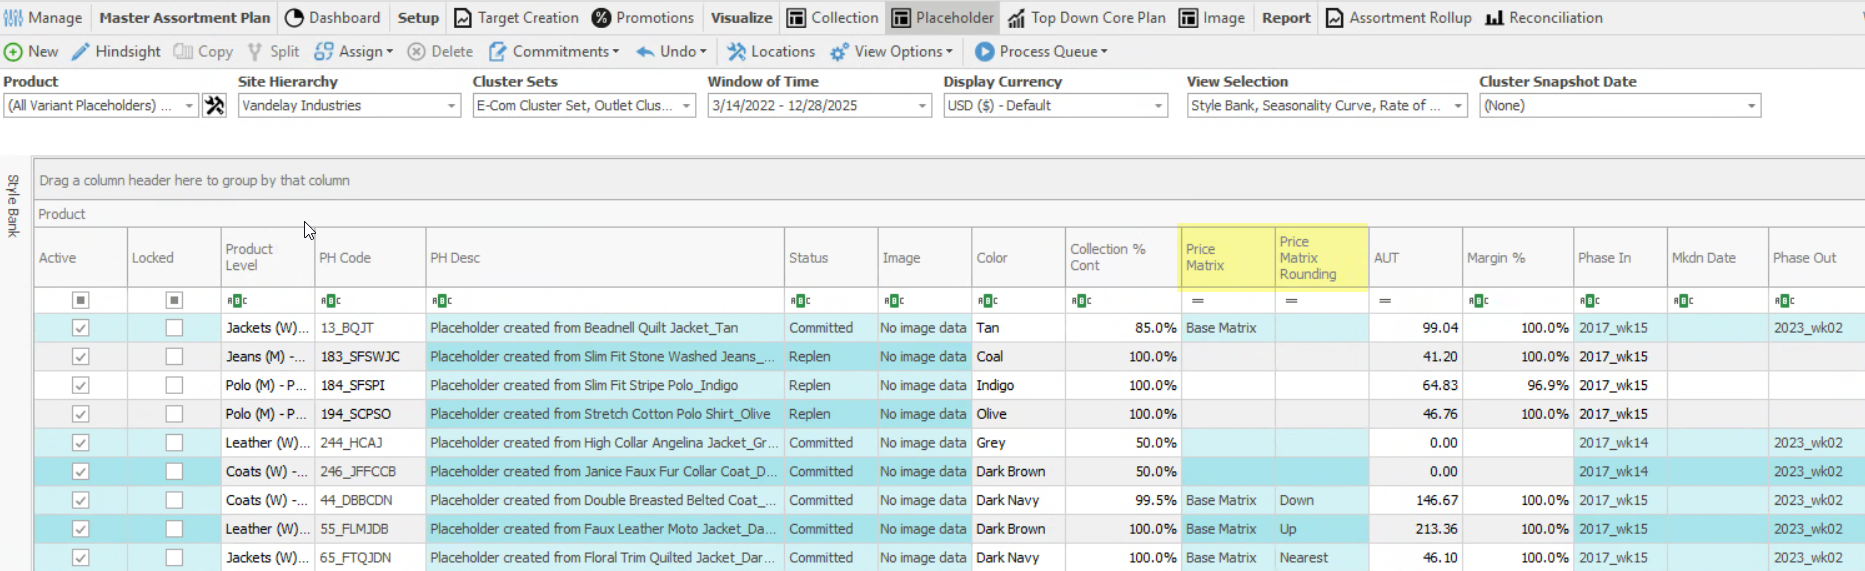
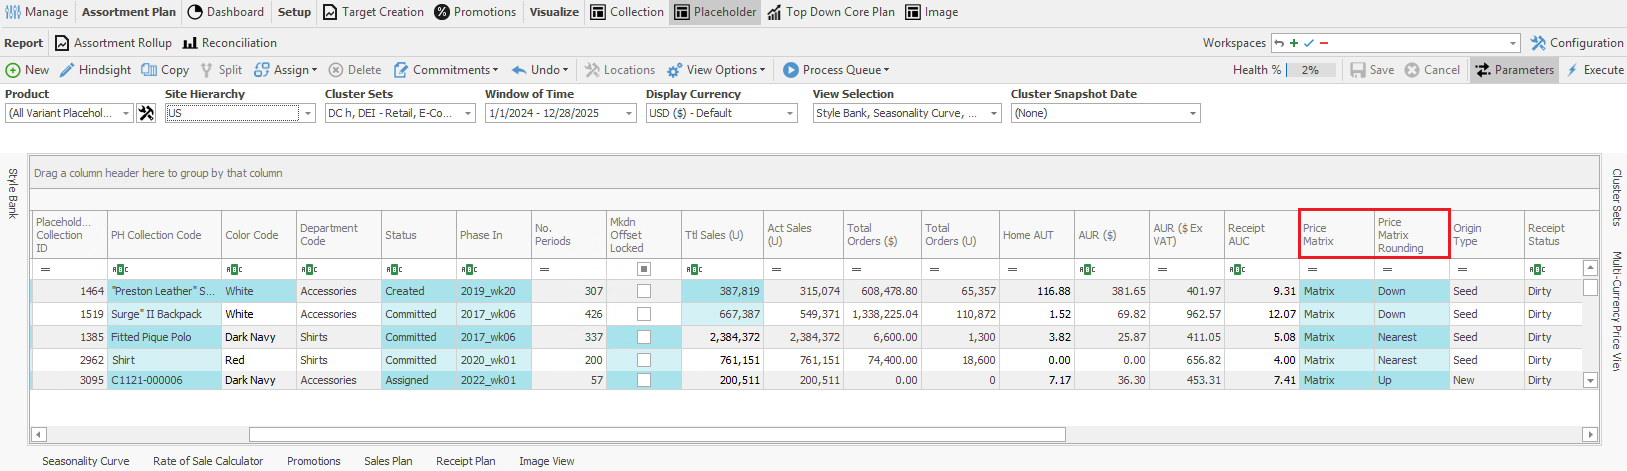
Incorp. feedback into RN & Help

diff --git a/Content/Topics/Release Notes/Assortment Planning.htm b/Content/Topics/Release Notes/Assortment Planning.htm
@@ -1,7 +1,6 @@
 <?xml version="1.0" encoding="utf-8"?>
 <html xmlns:MadCap="http://www.madcapsoftware.com/Schemas/MadCap.xsd">
     <head>
-        <link href="../../Resources/TableStyles/standard.css" rel="stylesheet" MadCap:stylesheetType="table" />
     </head>
     <body>
         <h1>Assortment Planning</h1>
@@ -9,7 +8,7 @@
         <p>Within Assortment Planning (AP), pricing decisions are important. Pricing might vary from one Cluster to another, and the complexities of various currencies and exchange rates also make pricing complex. ToolsGroup JustEnough has previously supported pricing strategies, without having to manage pricing individually, through the <span class="Emphasis">Price Point Matrix</span> screen (Price Matrix module). AP now provides better support for planning in multiple currencies.</p>
         <p>ToolsGroup JustEnough v2024.1 now supports an alternate process, <span class="Emphasis">Price Matrix</span>, to manage pricing. Instead of defining translation rules the users use a matrix to define pricing relationships across currencies.</p>
         <h3>Home AUT and Blended AUT</h3>
-        <p>AP now distinguishes between two different types of AUT (or Average Unit Ticket, for example, the ticket price intended to be printed on merchandise tags). A new metric, <span class="Emphasis">Home AUT</span>, has been added and existing metric <span class="Emphasis">AUT</span> has been revised to be non-editable and renamed <span class="Emphasis">Blended AUT</span>. </p>
+        <p>AP now distinguishes between two different types of AUT (or Average Unit Ticket, for example, the ticket price intended to be printed on merchandise tags). </p>
         <p>The first of these, <span class="Emphasis">Home AUT</span>, is meant to represent the AUT value for the country and currency of the defined Home Site as set in the <span class="Emphasis">Manage Assortment Plans</span> screen for AP.  This is the starting point for planning AUT, as this value is user-editable.  <span class="Emphasis">Home AUT</span> is only editable - and only has a value - in future periods. From this, <span class="Emphasis">Blended AUT</span> is derived.  </p>
         <p><span class="Emphasis">Blended AUT</span> is considered to be a true representation of the expected earnings for a given item.  <span class="Emphasis">Blended AUT</span> incorporates several components, each of which is enabled by system policy:</p>
         <ul>
@@ -37,21 +36,34 @@ Assortment Rollup and Reconciliation.</p>
         <p>
             <img src="../../Resources/Images/Assortment Planning/Multi-Currency Price Point Matrix Example.png" class="LargeImages" />
         </p>
-        <p>In the example, this indicates that USD $67.99 is equivalent to PLN zł270.  The matrix is meant to encapsulate both currency conversions and elegant rounding, or the standard price endings based on currency and locale, like ending prices in 99 cents in USD.</p>
+        <p>In the example, the Price Matrix configuration indicates that USD $67.99 is equivalent to PLN zł270.  The matrix is meant to encapsulate both currency conversions and elegant rounding, or the standard price endings based on currency and locale, like ending prices in 99 cents in USD.</p>
         <p>The Price Matrix should be specified as a hierarchy default so that newly created placeholders can automatically inherit this property.  Then, when new placeholders are created with a given <span class="Emphasis">Home AUT</span>, a <span class="Emphasis">Blended AUT</span> value can automatically be created.</p>
         <p>
             <img src="../../Resources/Images/Assortment Planning/Multi-Currency Matrix Specified as Default.png" class="LargeImages" />
         </p>
         <p class="BasicNote">It is not necessary to set a Price Matrix Rounding rule.  If a Price Matrix is specified, but no Rounding rule is specified, then <span class="Emphasis">Nearest</span> is used.
 </p>
+        <h3>Viewing Price Matrix conversions</h3>
+        <p>Users can review Price Matrix conversions via the following two new fields added to the main planning view: <span class="Emphasis">Price Matrix</span> and <span class="Emphasis">Price Matrix Rounding</span>.</p>
         <p>
-The specific usage of the Price Matrix can also be viewed in the <span class="Emphasis">Multi-Currency Price View</span>.  Users can see how, for each period, the Home AUT value converts into each specific currency's value. The <span class="Emphasis">Multi-Currency Price View</span> side view can be used to perform overrides to the established pricing rules.</p>
+            <img src="Price Matrix MPV UI.png" class="LargeImages">
+            </img>
+        </p>
+        <h3>Setting default price translation values</h3>
+        <p>Users can set default parameters for the <span class="Emphasis">Price Matrix</span> and <span class="Emphasis">Price Matrix Rounding</span> fields via two new corresponding fields added to the <span class="Emphasis">Assortment Plan Defaults</span> tab on the <span class="Emphasis">Manage Assortment Defaults</span> view. Setting default parameters saves having to manually set values each time. The defaults can still be changed later by users if needed.</p>
+        <p>
+            <img src="Price Translation fields.png" class="LargeImages">
+            </img>
+        </p>
+        <p class="BasicNote">The new fields display on the far right (currently moved for screenshot purposes), and they follow the same coloring and editability rules as the other defaults. Both fields show a dropdown for default selection.</p>
+        <p>
+The specific usage of the Price Matrix can also be viewed in the <span class="Emphasis">Multi-Currency Price View</span>.  Users can see how, for each period, the Home AUT value converts into each specific currency's value. </p>
         <p>
             <img src="../../Resources/Images/Assortment Planning/Multi-Currency Price View.png" class="LargeImages" />
         </p>
         <p class="BasicNote">To reflect the introduction into AP of the Price Matrix functionality, the existing <span class="Emphasis">Price Exceptions</span> view was relabeled <span class="Emphasis">Multi-Currency Price View</span>.</p>
         <p>The <span class="Emphasis">Multi-Currency Price View</span> also indicates whether any value was missing from the indicated Price Matrix value, for example, if a site in the cluster had currency GBP but this currency was not included in the Price Matrix.
-
+Missing Price Matrix values will also be noted in the Health Check fields in main planning view.
 </p>
         <p>After the AUT values are converted from <span class="Emphasis">Home AUT</span> values to currency-specific values using the Price Matrix, all AUT values are then converted back to Home currency using currency conversion rates, and a weighted average is used to calculate the cluster's combined <span class="Emphasis">Blended AUT</span> value.
 
@@ -60,17 +72,6 @@ The specific usage of the Price Matrix can also be viewed in the <span class="Em
         <p>
             <img src="../../Resources/Images/Assortment Planning/Multi-Currency Sales Plan View Edit.png" class="LargeImages" />
         </p>
-        <h3>Viewing Price Matrix conversions</h3>
-        <p>Users can review Price Matrix conversions via the following two new fields added to the main planning view: <span class="Emphasis">Price Matrix</span> and <span class="Emphasis">Price Matrix Rounding</span>.</p>
-        <p>
-            <img src="Price Matrix MPV UI.png" class="LargeImages" />
-        </p>
-        <h3>Setting default price translation values</h3>
-        <p>Users can set default parameters for the <span class="Emphasis">Price Matrix</span> and <span class="Emphasis">Price Matrix Rounding</span> fields via two new corresponding fields added to the <span class="Emphasis">Assortment Plan Defaults</span> tab on the <span class="Emphasis">Manage Assortment Defaults</span> view. Setting default parameters saves having to manually set values each time. The defaults can still be changed later by users if needed.</p>
-        <p>
-            <img src="Price Translation fields.png" class="LargeImages" />
-        </p>
-        <p class="BasicNote">The new fields display on the far right (currently moved for screenshot purposes), and they follow the same coloring and editability rules as the other defaults. Both fields show a dropdown for default selection.</p>
         <h3>Choosing which price conversion method to use</h3>
         <p>Choosing whether to use Price Exception or Price Matrix as the price conversion method when deriving currency-specific AUT values from the given home AUT value is done using new system policy <span class="Emphasis">Price Conversion Method</span>. This system policy is referenced when:</p>
         <ul>

diff --git a/Content/Topics/Assortment Planning/Defining Default Pricing Relationships Across Currencies.htm b/Content/Topics/Assortment Planning/Defining Default Pricing Relationships Across Currencies.htm
@@ -15,7 +15,7 @@
             <img src="../../Resources/Images/Assortment Planning/Multi-Currency Price Point Matrix Example.png" class="LargeImages">
             </img>
         </p>
-        <p>In the example, this indicates that USD $67.99 is equivalent to PLN zł270.  The matrix is meant to encapsulate both currency conversions and elegant rounding, or the standard price endings based on currency and locale, like ending prices in 99 cents in USD.</p>
+        <p>In the example, the Price Matrix configuration indicates that USD $67.99 is equivalent to PLN zł270.  The matrix is meant to encapsulate both currency conversions and elegant rounding, or the standard price endings based on currency and locale, like ending prices in 99 cents in USD.</p>
         <p>The Price Matrix should be specified as a hierarchy default so that newly created placeholders can automatically inherit this property.  Then, when new placeholders are created with a given <span class="Emphasis">Home AUT</span>, a <span class="Emphasis">Blended AUT</span> value can automatically be created.</p>
         <p>
             <img src="../../Resources/Images/Assortment Planning/Multi-Currency Matrix Specified as Default.png" class="LargeImages">
@@ -24,7 +24,20 @@
         <p class="BasicNote">It is not necessary to set a Price Matrix Rounding rule.  If a Price Matrix is specified, but no Rounding rule is specified, then <span class="Emphasis">Nearest</span> is used.
 </p>
         <p>
-The specific usage of the Price Matrix can also be viewed in the <span class="Emphasis">Multi-Currency Price View</span>.  Users can see how, for each period, the Home AUT value converts into each specific currency's value. The <span class="Emphasis">Multi-Currency Price View</span> side view can be used to perform overrides to the established pricing rules.</p>
+Viewing Price Matrix conversions</p>
+        <p>Users can review Price Matrix conversions via the following two new fields added to the main planning view: <span class="Emphasis">Price Matrix</span> and <span class="Emphasis">Price Matrix Rounding</span>.</p>
+        <p>
+            <img src="../Release Notes/Price Matrix MPV UI.png" class="LargeImages">
+            </img>
+        </p>
+        <h3>Setting default price translation values</h3>
+        <p>Users can set default parameters for the <span class="Emphasis">Price Matrix</span> and <span class="Emphasis">Price Matrix Rounding</span> fields via two new corresponding fields added to the <span class="Emphasis">Assortment Plan Defaults</span> tab on the <span class="Emphasis">Manage Assortment Defaults</span> view. Setting default parameters saves having to manually set values each time. The defaults can still be changed later by users if needed.</p>
+        <p>
+            <img src="../Release Notes/Price Translation fields.png" class="LargeImages">
+            </img>
+        </p>
+        <p class="BasicNote">The new fields display on the far right (currently moved for screenshot purposes), and they follow the same coloring and editability rules as the other defaults. Both fields show a dropdown for default selection.</p>
+        <p>The specific usage of the Price Matrix can also be viewed in the <span class="Emphasis">Multi-Currency Price View</span>.  Users can see how, for each period, the Home AUT value converts into each specific currency's value. The <span class="Emphasis">Multi-Currency Price View</span> side view can be used to perform overrides to the established pricing rules.</p>
         <p>
             <img src="../../Resources/Images/Assortment Planning/Multi-Currency Price View.png" class="LargeImages">
             </img>
@@ -41,19 +54,6 @@ The specific usage of the Price Matrix can also be viewed in the <span class="Em
             <img src="../../Resources/Images/Assortment Planning/Multi-Currency Sales Plan View Edit.png" class="LargeImages">
             </img>
         </p>
-        <h3>Viewing Price Matrix conversions</h3>
-        <p>Users can review Price Matrix conversions via the following two new fields added to the main planning view: <span class="Emphasis">Price Matrix</span> and <span class="Emphasis">Price Matrix Rounding</span>.</p>
-        <p>
-            <img src="../Release Notes/Price Matrix MPV UI.png" class="LargeImages">
-            </img>
-        </p>
-        <h3>Setting default price translation values</h3>
-        <p>Users can set default parameters for the <span class="Emphasis">Price Matrix</span> and <span class="Emphasis">Price Matrix Rounding</span> fields via two new corresponding fields added to the <span class="Emphasis">Assortment Plan Defaults</span> tab on the <span class="Emphasis">Manage Assortment Defaults</span> view. Setting default parameters saves having to manually set values each time. The defaults can still be changed later by users if needed.</p>
-        <p>
-            <img src="../Release Notes/Price Translation fields.png" class="LargeImages">
-            </img>
-        </p>
-        <p class="BasicNote">The new fields display on the far right (currently moved for screenshot purposes), and they follow the same coloring and editability rules as the other defaults. Both fields show a dropdown for default selection.</p>
         <h3>Choosing which price conversion method to use</h3>
         <p>Choosing whether to use Price Exception or Price Matrix as the price conversion method when deriving currency-specific AUT values from the given home AUT value is done using new system policy <span class="Emphasis">Price Conversion Method</span>. This system policy is referenced when:</p>
         <ul>

diff --git a/Content/Topics/Allocations/Size models field reference.htm b/Content/Topics/Allocations/Size models field reference.htm
@@ -1,6 +1,7 @@
 <?xml version="1.0" encoding="utf-8"?>
 <html xmlns:MadCap="http://www.madcapsoftware.com/Schemas/MadCap.xsd" xml:lang="en-us">
-    <head><title></title>
+    <head>
+        <link href="../../Resources/TableStyles/standard.css" rel="stylesheet" MadCap:stylesheetType="table" /><title></title>
     </head>
     <body>
         <h1>Size models field reference</h1>
@@ -11,6 +12,37 @@ items.</p>
             <li><span class="Emphasis">Size Model Name</span> – User generated name for the size model. </li>
             <li><span class="Emphasis">Size Model Description</span> – Optional description for the size model. </li>
             <li><span class="Emphasis">Size Range</span> – The pre-defined set of acceptable sizes to be included in the curve. The size range data must be imported. </li>
+            <li>
+                <p><span class="Emphasis">Size Curve</span> - The size percentage contribution by store, based on historical sales.</p>
+            </li>
+            <li>
+                <p><span class="Emphasis">Exception Status</span>  - Required configuration elements are missing.</p>
+                <p>If a size curve’s item master filter is empty or items in the filter have no history during recalculation, users are notified via the <span class="Emphasis">Exception Status</span> column. If an Exception is present, the field is formatted red. Within the field, click <span class="Emphasis">View</span> to see the details of the issue.</p>
+                <p>
+                    <img src="../../Resources/Images/Allocations/Size Mode Exceptions.png" class="LargeImages" />
+                </p>
+                <p>There are two possible Exception messages:</p>
+                <table style="width: 100%;margin-left: 0;margin-right: auto;mc-table-style: url('../../Resources/TableStyles/standard.css');" class="TableStyle-standard" cellspacing="0">
+                    <col class="TableStyle-standard-Column-Column1" style="width: 20%;" />
+                    <col class="TableStyle-standard-Column-Column2" style="width: 80%;" />
+                    <thead>
+                        <tr class="TableStyle-standard-Head-Header1">
+                            <th class="TableStyle-standard-HeadE-Column1-Header1">Exception</th>
+                            <th class="TableStyle-standard-HeadD-Column2-Header1">Description</th>
+                        </tr>
+                    </thead>
+                    <tbody>
+                        <tr class="TableStyle-standard-Body-Body1">
+                            <td class="TableStyle-standard-BodyE-Column1-Body1">No Valid Items in Size Model Filters</td>
+                            <td class="TableStyle-standard-BodyD-Column2-Body1">There are no items matching the criteria specified in the item filter. Please ensure that the item filter is not empty or consider adjusting the filter criteria.</td>
+                        </tr>
+                        <tr class="TableStyle-standard-Body-Body1">
+                            <td class="TableStyle-standard-BodyB-Column1-Body1">No Qualified Sales</td>
+                            <td class="TableStyle-standard-BodyA-Column2-Body1">No historical sales were found within the specified timeframe. Please ensure that the items specified in the filter have valid sales records between the dates set by the start date, end date, and Last X Days parameters.</td>
+                        </tr>
+                    </tbody>
+                </table>
+            </li>
             <li><span class="Emphasis">Filter</span> – The product filter which is used as a base of historical data to generate the size model. </li>
             <li><span class="Emphasis">Access Level</span> – Access levels determine which users may review or edit the size model. </li>
             <li><span class="Emphasis">User Select</span> – Displays the specific users for a shared access level size model. </li>

diff --git a/Content/Topics/Inventory Forecasts/Forecasting Cost and Retail Ticket Price.htm b/Content/Topics/Inventory Forecasts/Forecasting Cost and Retail Ticket Price.htm
@@ -1,24 +1,22 @@
 <?xml version="1.0" encoding="utf-8"?>
 <html xmlns:MadCap="http://www.madcapsoftware.com/Schemas/MadCap.xsd">
     <head>
-        <link href="../../Resources/TableStyles/standard.css" rel="stylesheet" MadCap:stylesheetType="table" />
     </head>
     <body>
-        <h1>Forecasts</h1>
-        <h2>Forecasting cost and retail ticket price </h2>
-        <p>Planners can now use two new series, <span class="Emphasis">Forecast Cost</span> and <span class="Emphasis">Forecast Retail</span>, to forecast the cost and retail ticket price of selected inventory. The result is insight into the profitability of future sales originally priced in different currencies. Pricing displays in the planner's system or home currency. Currency conversion  is automatic and is defined by existing system policy <span class="Emphasis">Currency ID</span> (Engine: Replenish). </p>
+        <h1>Forecasting cost and retail ticket price </h1>
+        <p>Planners can use two series, <span class="Emphasis">Forecast Cost</span> and <span class="Emphasis">Forecast Retail</span>, to forecast the cost and retail ticket price of selected inventory. The result is insight into the profitability of future sales originally priced in different currencies. Pricing displays in the planner's system or home currency. Currency conversion  is automatic and is defined by system policy <span class="Emphasis">Currency ID</span> (Engine: Replenish). </p>
         <p class="BasicNote">If system policy <span class="Emphasis">Currency ID</span> is set to <span class="Emphasis">1</span>, then currency conversion does not take place.</p>
         <p>
             <img src="../../Resources/Images/Demand Forecasting/Currency Metrics.PNG" class="LargeImages" />
         </p>
         <p>The two series appear as color coded lines in the graph with the data being from the currently selected inventory in the Forecast view.</p>
         <p>Currency values are greater than unit values; where 1 unit can correspond to a high currency value (e.g. 1 unit = $100) If both unit and currency forecast data series are selected, the unit values on the graph appear stacked across the bottom of the graph. This is because the y-axis is extended to display the currency values. A best practice is to select either units or currency forecast series when viewing values in the graph. This will apply the appropriate scale to the y-axis for proper viewing. </p>
-        <h3>Series Name: Forecast Cost</h3>
+        <h2>Series Name: Forecast Cost</h2>
         <p>Color: Blue</p>
         <p>Calculation: Forecasted units * cost of the unit in the system currency</p>
         <p>Example: 
 
-Inventory ID 1 - Effective Forecast (note this takes into account profiles, level breakdown, manual forecast etc.)</p>
+		Inventory ID 1 - Effective Forecast (note this takes into account profiles, level breakdown, manual forecast etc.)</p>
         <table style="mc-table-style: url('../../Resources/TableStyles/standard.css');margin-left: 0;margin-right: auto;width: 100%;" class="TableStyle-standard" cellspacing="0">
             <col class="TableStyle-standard-Column-Column1" style="width: 20%;" />
             <col class="TableStyle-standard-Column-Column2" style="width: 20%;" />
@@ -262,13 +260,13 @@ Inventory ID 1 - Effective Forecast (note this takes into account profiles, leve
                 </tr>
             </tbody>
         </table>
-        <h3>Series Name: Forecast Retail 
+        <h2>Series Name: Forecast Retail 
 
-</h3>
+		</h2>
         <p>Color: Green
-</p>
+		</p>
         <p>Calculation: Forecasted units * retail of the unit in the system currency<![CDATA[
 
-]]></p>
+		]]></p>
     </body>
 </html>

diff --git a/Content/Topics/Assortment Planning/Setup and Configuration.htm b/Content/Topics/Assortment Planning/Setup and Configuration.htm
@@ -49,7 +49,7 @@
                     <tr class="TableStyle-standard-Body-Body1">
                         <td class="TableStyle-standard-BodyE-Column1-Body1"><span class="Emphasis">Default Commitment Merge</span>
                         </td>
-                        <td class="TableStyle-standard-BodyD-Column2-Body1">Sets the default merging behavior of order lines when commitment orders are created: 0 = None, 1 = Merge by Variant (default). For more information, <MadCap:conditionalText MadCap:conditions="General.ScreenOnly">see <MadCap:xref href="../Order Manager/Creating Commitment Orders.htm">Creating Commitment Orders.</MadCap:xref></MadCap:conditionalText><MadCap:conditionalText MadCap:conditions="General.PrintOnly">see <MadCap:xref href="Commitment Orders in Order Manager.htm">Commitment Orders.</MadCap:xref></MadCap:conditionalText></td>
+                        <td class="TableStyle-standard-BodyD-Column2-Body1">Sets the default merging behavior of order lines when commitment orders are created: 0 = None, 1 = Merge by Variant (default). <MadCap:conditionalText MadCap:conditions="General.DoNotPublish">For more information, <MadCap:conditionalText MadCap:conditions="General.ScreenOnly">see <MadCap:xref href="../Order Manager/Creating Commitment Orders.htm">Creating Commitment Orders.</MadCap:xref></MadCap:conditionalText><MadCap:conditionalText MadCap:conditions="General.PrintOnly">see <MadCap:xref href="Commitment Orders in Order Manager.htm">Commitment Orders.</MadCap:xref></MadCap:conditionalText></MadCap:conditionalText></td>
                     </tr>
                     <tr class="TableStyle-standard-Body-Body1">
                         <td class="TableStyle-standard-BodyB-Column1-Body1"><span class="Emphasis">Receipt Cluster Merge All</span>

diff --git a/Content/Topics/Release Notes/Breaking Changes.htm b/Content/Topics/Release Notes/Breaking Changes.htm
@@ -5,7 +5,7 @@
     <body>
         <h1>Breaking Changes</h1>
         <h2>Inventory <MadCap:conditionalText MadCap:conditions="General.DoNotPublish">DMDEV-89794</MadCap:conditionalText></h2>
-        <p>The exceedingly old pair of tables, <span class="Emphasis">tbl_ArchiveInventory</span> and <span class="Emphasis">tbl_ArchiveInventoryStatus</span>, having been deprecated since JE 3.5.2.2, are explicitly excluded from any Purge activities.  In addition, the database Foreign Key linking the former to the core <span class="Emphasis">tbl_Inventory</span> table has been removed (DROPped) and will not be reinstated.  Any custom code still referencing these tables ought to be eliminated entirely.</p>
+        <p>The exceedingly old and replaced pair of tables, <span class="Emphasis">tbl_ArchiveInventory</span> and <span class="Emphasis">tbl_ArchiveInventoryStatus</span>, having been deprecated since JE 3.5.2.2, are explicitly excluded from any Purge activities.  In addition, the database Foreign Key linking the former to the core <span class="Emphasis">tbl_Inventory</span> table has been removed (DROPped) and will not be reinstated.  Any custom code still referencing these tables ought to be eliminated entirely.</p>
         <p>Any custom or TG JE support developed Inventory Purge procedures must be removed immediately and never reinstated.  The new Inventory Purge supports purge of data from both TG JE core and any custom tables using InventoryID.  Using any other purge mechanism is unsupported and is undertaken at the user’s own risk.</p>
     </body>
 </html>

diff --git a/Content/Topics/Inventory Forecasts/Inventory Forecasting.htm b/Content/Topics/Inventory Forecasts/Inventory Forecasting.htm
@@ -133,13 +133,16 @@ checked.</td>
                 </tr>
                 <tr class="TableStyle-standard-Body-Body1">
                     <td class="TableStyle-standard-BodyE-Column1-Body1">Forecast Cost</td>
-                    <td class="TableStyle-standard-BodyD-Column2-Body1">&#160;</td>
+                    <td class="TableStyle-standard-BodyD-Column2-Body1"><![CDATA[
+
+]]><span class="Emphasis">Calculation</span>: Forecasted units * cost of the unit in the system currency</td>
                 </tr>
                 <tr class="TableStyle-standard-Body-Body1">
                     <td class="TableStyle-standard-BodyB-Column1-Body1">Forecast Retail </td>
-                    <td class="TableStyle-standard-BodyA-Column2-Body1">&#160;</td>
+                    <td class="TableStyle-standard-BodyA-Column2-Body1"><span class="Emphasis">Calculation</span>: Forecasted units * retail of the unit in the system currency</td>
                 </tr>
             </tbody>
         </table>
+        <p class="BasicNote">For more information on Forecast Cost and Forecast Retail, see <MadCap:xref href="Forecasting Cost and Retail Ticket Price.htm">Forecasting cost and retail ticket price .</MadCap:xref></p>
     </body>
 </html>

diff --git a/Content/Topics/Release Notes/Wholesale Planning.htm b/Content/Topics/Release Notes/Wholesale Planning.htm
@@ -4,9 +4,7 @@
     </head>
     <body>
         <h1>Wholesale Planning</h1>
-        <p>TG&#160;JE v20234.1 introduced support for retailers planning in the wholesale space. </p>
-        <p class="BasicNote">The TG&#160;JE v2023.4 release notes extensively describes the rationale and new wholesale functionality introduced with that release. 
-Please refer to the <cite>TG JE v2023.4 release notes</cite> for further information.</p>
+        <p>Please refer to the TG JE v2023.4 release notes for an extensive description of TG JE's wholesale functionality.</p>
         <h2>Assortment Planning</h2>
         <p>The following wholesale metrics were added to the main planning view and the Cluster Sets view for TG&#160;JE v2023.4. These metrics are now extended to the Sales Plan, Receipt Plan, and Top Down Core Plan views.</p>
         <table style="width: 100%;">

diff --git a/Content/Topics/Release Notes/Merchandise Financial Planning.htm b/Content/Topics/Release Notes/Merchandise Financial Planning.htm
@@ -19,7 +19,7 @@
             <tbody>
                 <tr class="TableStyle-standard-Body-Body1">
                     <td class="TableStyle-standard-BodyB-Column1-Body1" style="vertical-align: middle;padding-left: 6px;padding-right: 6px;padding-top: 6px;padding-bottom: 6px;text-align: center;">AUR/AUT</td>
-                    <td class="TableStyle-standard-BodyA-Column2-Body1" style="vertical-align: middle;padding-left: 6px;padding-right: 6px;padding-top: 6px;padding-bottom: 6px;text-align: center;">(1-(AUR/AUT))*100</td>
+                    <td class="TableStyle-standard-BodyA-Column2-Body1" style="vertical-align: middle;padding-left: 6px;padding-right: 6px;padding-top: 6px;padding-bottom: 6px;text-align: center;">(1-(AUR/AUT))</td>
                 </tr>
             </tbody>
         </table>

diff --git a/Content/Topics/Merchandise Financial Planning/Merchandise Financial Planning Metrics List.htm b/Content/Topics/Merchandise Financial Planning/Merchandise Financial Planning Metrics List.htm
@@ -490,7 +490,7 @@ If custom metrics are configured with these exact names, then the weekly mainten
                     <td class="TableStyle-standard-BodyE-Column2-Body1">Yes</td>
                     <td class="TableStyle-standard-BodyE-Column1-Body1">Yes</td>
                     <td class="TableStyle-standard-BodyE-Column2-Body1">Yes</td>
-                    <td class="TableStyle-standard-BodyE-Column1-Body1">AUR / AUT</td>
+                    <td class="TableStyle-standard-BodyE-Column1-Body1">(1-(AUR/AUT))</td>
                     <td class="TableStyle-standard-BodyE-Column2-Body1">Same as Cost</td>
                     <td class="TableStyle-standard-BodyE-Column1-Body1">Same as Cost</td>
                     <td class="TableStyle-standard-BodyE-Column2-Body1">0.01%</td>
